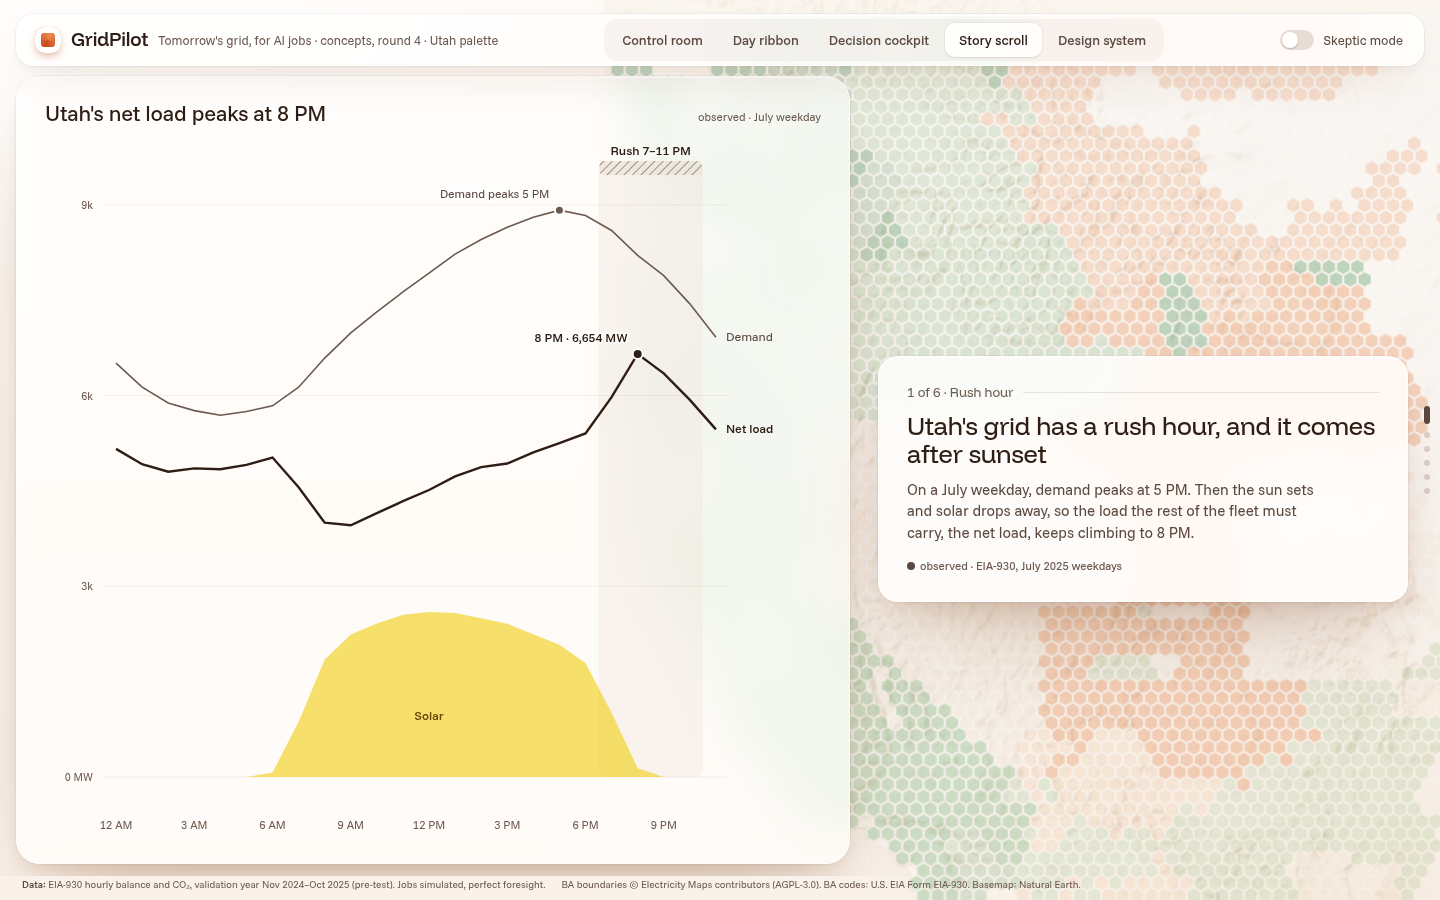
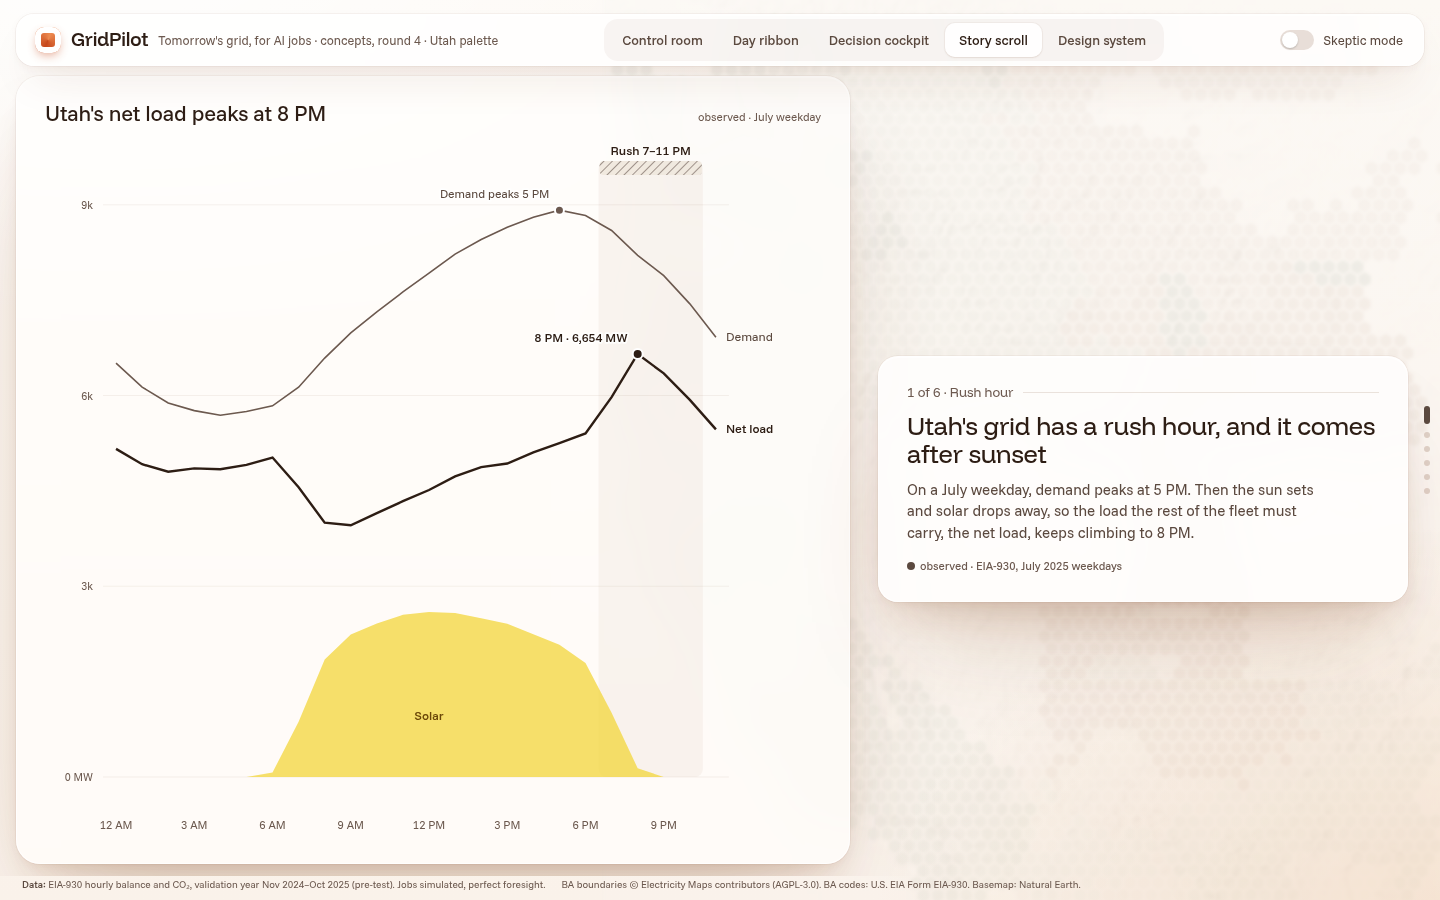
design: backdrop map recedes to a faint watermark off the map view (owner feedback)
Claude-Session: https://claude.ai/code/session_01DKgVtE8vSiTczfzdqoVFhE

Changed region(s): [[0.5, 0.0622, 1.0, 0.4978], [0.5938, 0.6533, 0.9375, 1.0], [0.4062, 0.0622, 0.4688, 0.0933]]

diff --git a/docs/design/concepts/index.html b/docs/design/concepts/index.html
@@ -103,10 +103,12 @@ body.live .tabs .thumb{transition:left .32s var(--ease),width .32s var(--ease)}
 .scene{position:fixed;inset:0;z-index:0;pointer-events:none;transition:opacity .45s var(--ease),transform .6s var(--ease),filter .45s}
 .scene svg{position:absolute;display:block}
 body[data-view="control"] .scene{opacity:1;pointer-events:auto}
-body[data-view="ribbon"] .scene{opacity:.7;transform:translate(18vw,10vh) scale(1.25)}
-body[data-view="cockpit"] .scene{opacity:.7;transform:translate(-24vw,12vh) scale(1.3)}
-body[data-view="story"] .scene{opacity:.6;transform:translate(22vw,4vh) scale(1.1)}
-body[data-view="system"] .scene{opacity:.5;transform:translate(26vw,6vh) scale(1.05)}
+/* off the map view, the West recedes to a faint, desaturated watermark: context, not content */
+body:not([data-view="control"]) .scene{filter:saturate(.3) blur(1.5px)}
+body[data-view="ribbon"] .scene{opacity:.18;transform:translate(18vw,10vh) scale(1.25)}
+body[data-view="cockpit"] .scene{opacity:.18;transform:translate(-24vw,12vh) scale(1.3)}
+body[data-view="story"] .scene{opacity:.16;transform:translate(22vw,4vh) scale(1.1)}
+body[data-view="system"] .scene{opacity:.14;transform:translate(26vw,6vh) scale(1.05)}
 @media (prefers-reduced-motion:reduce){.scene,.tabs .thumb,*{transition:none!important;animation:none!important}}
 
 /* ── views ── */

diff --git a/docs/design/tokens.md b/docs/design/tokens.md
@@ -39,3 +39,10 @@ The full text is in the gallery's Design system tab.
 - Solar against peach: ΔE 12.2. Solar is only ever a labelled area.
 
 Generator scripts: `docs/design/concepts/src/oklch.mjs` and `div2.mjs`.
+
+## Shared map as a backdrop
+
+Owner feedback on round 4: the backdrop map "is taking too much focus".
+
+- On every view except the map view (Control room), the shared relief and hex map is a watermark: opacity 0.14–0.18, `filter: saturate(.3) blur(1.5px)`.
+- A view's own small map (for example the Decision cockpit's inset) stays at full colour.
